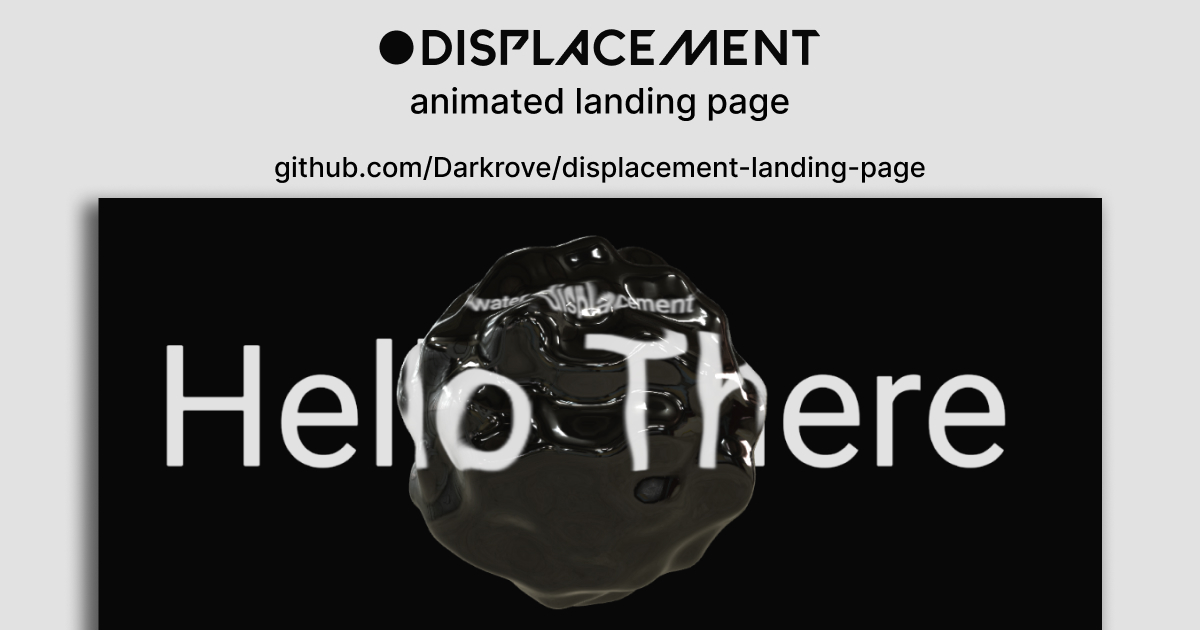
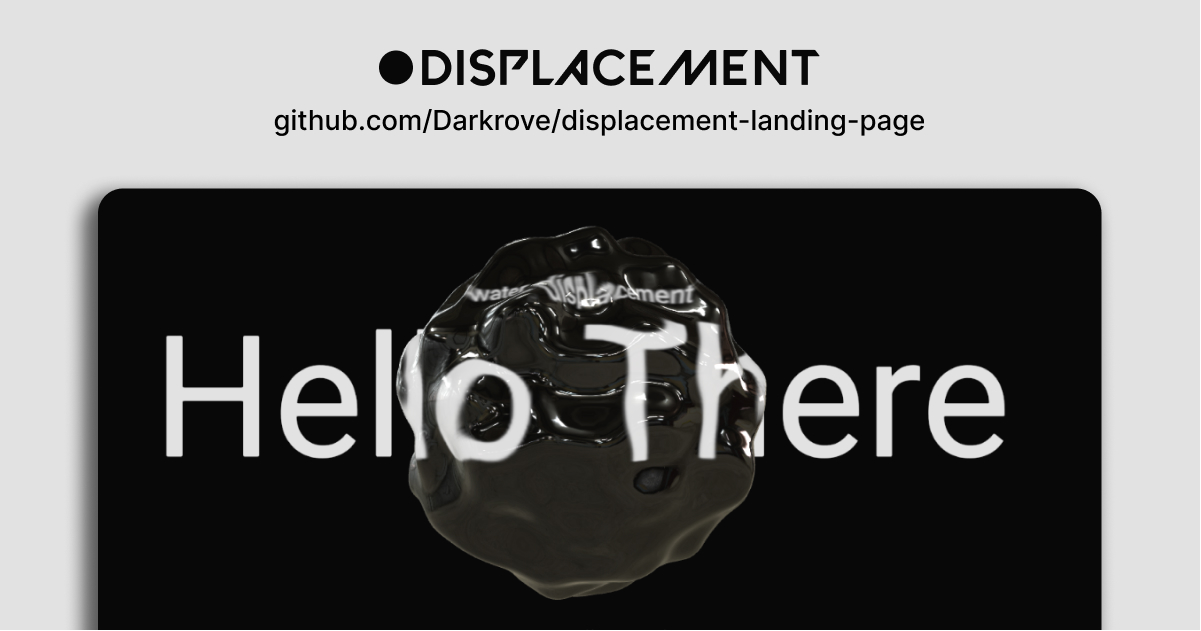
update: typography

diff --git a/src/components/typography.tsx b/src/components/typography.tsx
@@ -2,12 +2,11 @@ import { useThree } from "@react-three/fiber";
 import { RenderTexture, Text } from "@react-three/drei";
 
 interface TypographyProps {
-  LINE_1: string;
-  LINE_2: string;
+  LINE: string;
   SIZE: number;
 }
 
-export const Typography = ({ LINE_1, LINE_2, SIZE }: TypographyProps) => {
+export const Typography = ({ LINE, SIZE }: TypographyProps) => {
   const { width, height } = useThree((state) => state.viewport);
   const vw = (size: number) => (width * size) / 100;
   const vh = (size: number) => (height * size) / 100;
@@ -18,11 +17,8 @@ export const Typography = ({ LINE_1, LINE_2, SIZE }: TypographyProps) => {
       <meshBasicMaterial toneMapped={false}>
         <RenderTexture attach="map" sourceFile={undefined}>
           <color attach="background" args={["hsl(0,0%,03%)"]} />
-          <Text fontSize={vw(SIZE / 7)} position={[0, vh(20), 0]}>
-            {LINE_1}
-          </Text>
           <Text fontSize={vw(SIZE)} position={[0, 0, 0]}>
-            {LINE_2}
+            {LINE}
           </Text>
         </RenderTexture>
       </meshBasicMaterial>

diff --git a/src/components/overlay.tsx b/src/components/overlay.tsx
@@ -1,26 +1,10 @@
 interface OverlayProps {
-  LINE_1: string;
-  LINE_2: string;
+  LINE: string;
   SIZE: number;
 }
 
-export const Overlay = ({ LINE_1, LINE_2, SIZE }: OverlayProps) => (
+export const Overlay = ({ LINE, SIZE }: OverlayProps) => (
   <>
-    <span
-      style={{
-        position: "absolute",
-        bottom: "50%",
-        left: "50%",
-        fontSize: `${SIZE / 7}vw`,
-        fontWeight: 200,
-        lineHeight: 1,
-        color: "hsla(0, 100%, 50%, 0)",
-        transform: "translateX(-50%) translateY(calc(50% - 20vh))",
-        whiteSpace: "nowrap",
-      }}
-    >
-      {LINE_1}
-    </span>
     <span
       style={{
         position: "absolute",
@@ -34,7 +18,7 @@ export const Overlay = ({ LINE_1, LINE_2, SIZE }: OverlayProps) => (
         whiteSpace: "nowrap",
       }}
     >
-      {LINE_2}
+      {LINE}
     </span>
     <span
       style={{

diff --git a/src/app/page.tsx b/src/app/page.tsx
@@ -8,8 +8,7 @@ import { Typography } from "@/components/typography";
 import { Overlay } from "@/components/overlay";
 import { Html } from "@react-three/drei";
 
-const LINE_1 = "water displacement";
-const LINE_2 = "Hello There";
+const LINE = "Hello There";
 const SIZE = 14;
 
 function Loader() {
@@ -30,12 +29,12 @@ export default function Page() {
         <PerspectiveCamera position={[0, 0, 50]} makeDefault />
         <Suspense fallback={<Loader />}>
           <Bubble />
-          <Typography LINE_1={LINE_1} LINE_2={LINE_2} SIZE={SIZE} />
+          <Typography LINE={LINE} SIZE={SIZE} />
           <Environment preset="warehouse" />
         </Suspense>
       </Canvas>
       {/* Smoke and mirrors – render invisible DOM above canvas*/}
-      <Overlay LINE_1={LINE_1} LINE_2={LINE_2} SIZE={SIZE} />
+      <Overlay LINE={LINE} SIZE={SIZE} />
     </>
   );
 }
